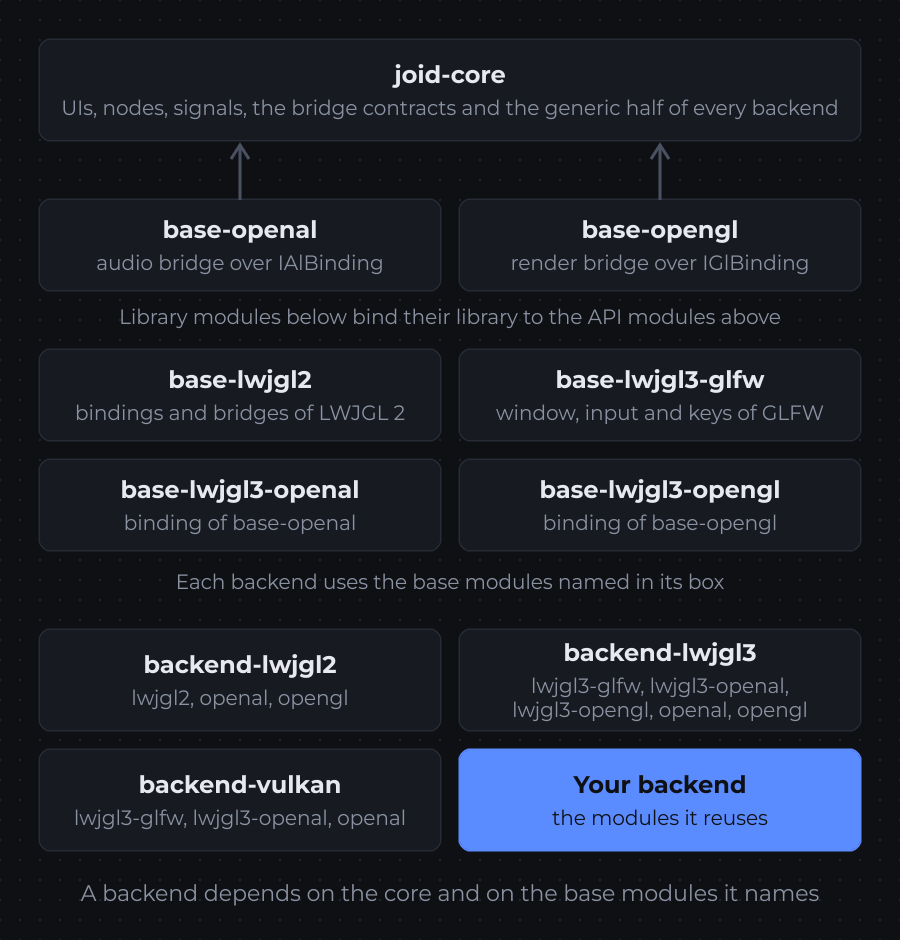
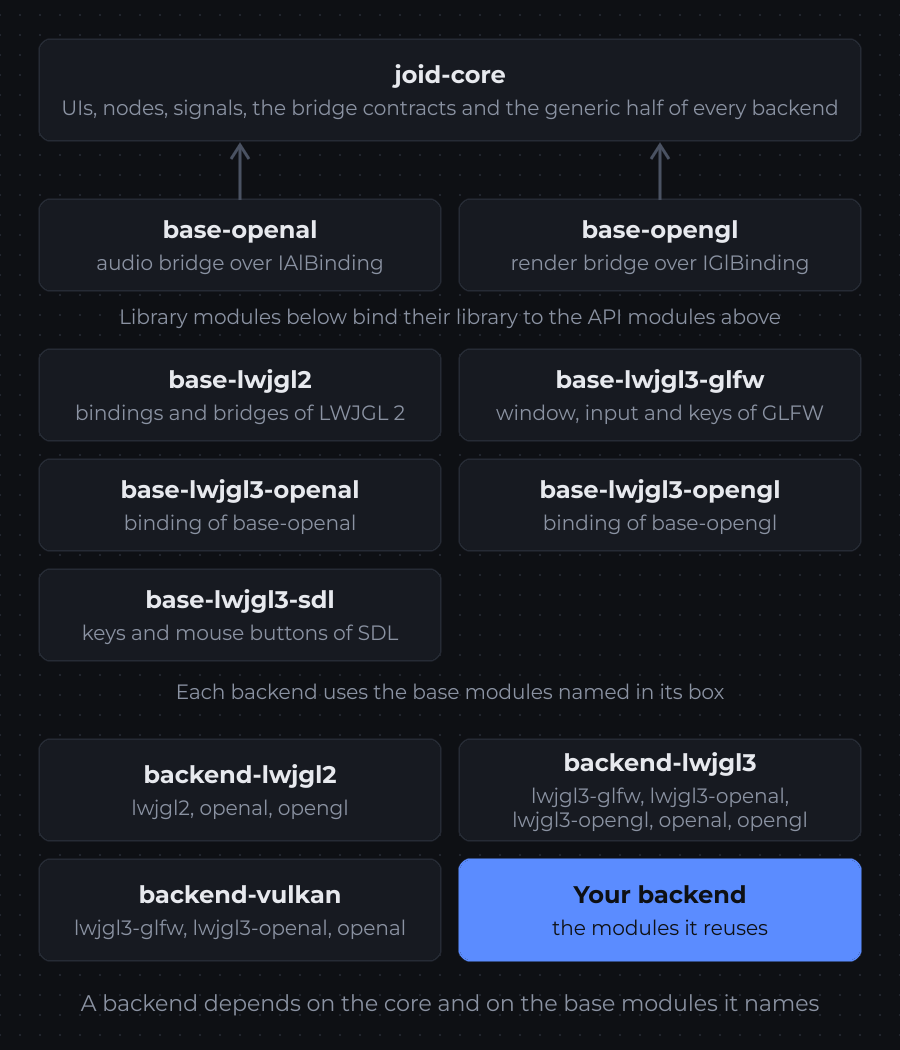
edit: build layers diagram with the SDL module (📝)

Changed region(s): [[0.0622, 0.0617, 0.9644, 0.9872]]

diff --git a/documentation/examples/src/main/java/com/example/backend/diagram/LayersDiagramUI.java b/documentation/examples/src/main/java/com/example/backend/diagram/LayersDiagramUI.java
@@ -6,7 +6,7 @@ public class LayersDiagramUI extends BuildDiagramUI {
 
 	@Override
 	public void init() {
-		final RectNode backdrop = super.backdrop(510, 70, 900, 940).attach(this);
+		final RectNode backdrop = super.backdrop(510, 15, 900, 1050).attach(this);
 
 		super.box(40, 40, 820, 100, "joid-core", "UIs, nodes, signals, the bridge contracts and the generic half of every backend").attach(backdrop);
 
@@ -17,20 +17,21 @@ public class LayersDiagramUI extends BuildDiagramUI {
 		super.box(460, 350, 400, 90, "base-lwjgl3-glfw", "window, input and keys of GLFW").attach(backdrop);
 		super.box(40, 460, 400, 90, "base-lwjgl3-openal", "binding of base-openal").attach(backdrop);
 		super.box(460, 460, 400, 90, "base-lwjgl3-opengl", "binding of base-opengl").attach(backdrop);
+		super.box(40, 570, 400, 90, "base-lwjgl3-sdl", "keys and mouse buttons of SDL").attach(backdrop);
 
-		super.box(40, 630, 400, 100, "backend-lwjgl2", "lwjgl2, openal, opengl").attach(backdrop);
-		super.box(460, 630, 400, 100, "backend-lwjgl3", "lwjgl3-glfw, lwjgl3-openal, lwjgl3-opengl, openal, opengl").attach(backdrop);
-		super.box(40, 750, 400, 100, "backend-vulkan", "lwjgl3-glfw, lwjgl3-openal, openal").attach(backdrop);
-		super.subject(460, 750, 400, 100, "Your backend", "the modules it reuses").attach(backdrop);
+		super.box(40, 740, 400, 100, "backend-lwjgl2", "lwjgl2, openal, opengl").attach(backdrop);
+		super.box(460, 740, 400, 100, "backend-lwjgl3", "lwjgl3-glfw, lwjgl3-openal, lwjgl3-opengl, openal, opengl").attach(backdrop);
+		super.box(40, 860, 400, 100, "backend-vulkan", "lwjgl3-glfw, lwjgl3-openal, openal").attach(backdrop);
+		super.subject(460, 860, 400, 100, "Your backend", "the modules it reuses").attach(backdrop);
 
-		super.label(40, 880, 820, 50, "A backend depends on the core and on the base modules it names").attach(backdrop);
+		super.label(40, 990, 820, 50, "A backend depends on the core and on the base modules it names").attach(backdrop);
 
 		for (final double x : new double[] {240D, 660D}) {
 			super.arrow(backdrop, x, 200D, x, 145D);
 		}
 
 		super.note(40, 305, 820, 30, "Library modules below bind their library to the API modules above").attach(backdrop);
-		super.note(40, 570, 820, 40, "Each backend uses the base modules named in its box").attach(backdrop);
+		super.note(40, 680, 820, 40, "Each backend uses the base modules named in its box").attach(backdrop);
 	}
 
 }

diff --git a/documentation/src/content/docs/build/architecture.md b/documentation/src/content/docs/build/architecture.md
@@ -11,7 +11,7 @@ A module depends only on the layers above it, and a base module on no other one,
 
 <figure>
 
-![Three bands of boxes. At the top, joid-core: UIs, nodes, signals, the bridge contracts and the generic half of every backend. In the middle, the base modules: on a first row, the API modules base-openal (audio bridge over IAlBinding) and base-opengl (render bridge over IGlBinding), each with an arrow up to the core; a note reads: library modules below bind their library to the API modules above; on the rows below, the library modules base-lwjgl2 (bindings and bridges of LWJGL 2), base-lwjgl3-glfw (window, input and keys of GLFW), base-lwjgl3-openal (binding of base-openal) and base-lwjgl3-opengl (binding of base-opengl). A note reads: each backend uses the base modules named in its box. At the bottom, four backends on two rows: backend-lwjgl2 (lwjgl2, openal, opengl), backend-lwjgl3 (lwjgl3-glfw, lwjgl3-openal, lwjgl3-opengl, openal, opengl), backend-vulkan (lwjgl3-glfw, lwjgl3-openal, openal) and, highlighted in blue, your backend with the modules it reuses. A line under them reads: a backend depends on the core and on the base modules it names.](/captures/build-layers.webp)
+![Three bands of boxes. At the top, joid-core: UIs, nodes, signals, the bridge contracts and the generic half of every backend. In the middle, the base modules: on a first row, the API modules base-openal (audio bridge over IAlBinding) and base-opengl (render bridge over IGlBinding), each with an arrow up to the core; a note reads: library modules below bind their library to the API modules above; on the rows below, the library modules base-lwjgl2 (bindings and bridges of LWJGL 2), base-lwjgl3-glfw (window, input and keys of GLFW), base-lwjgl3-openal (binding of base-openal), base-lwjgl3-opengl (binding of base-opengl) and base-lwjgl3-sdl (keys and mouse buttons of SDL). A note reads: each backend uses the base modules named in its box. At the bottom, four backends on two rows: backend-lwjgl2 (lwjgl2, openal, opengl), backend-lwjgl3 (lwjgl3-glfw, lwjgl3-openal, lwjgl3-opengl, openal, opengl), backend-vulkan (lwjgl3-glfw, lwjgl3-openal, openal) and, highlighted in blue, your backend with the modules it reuses. A line under them reads: a backend depends on the core and on the base modules it names.](/captures/build-layers.webp)
 
 <figcaption>
 A backend picks the base modules it needs and adds only what is specific to its library.
